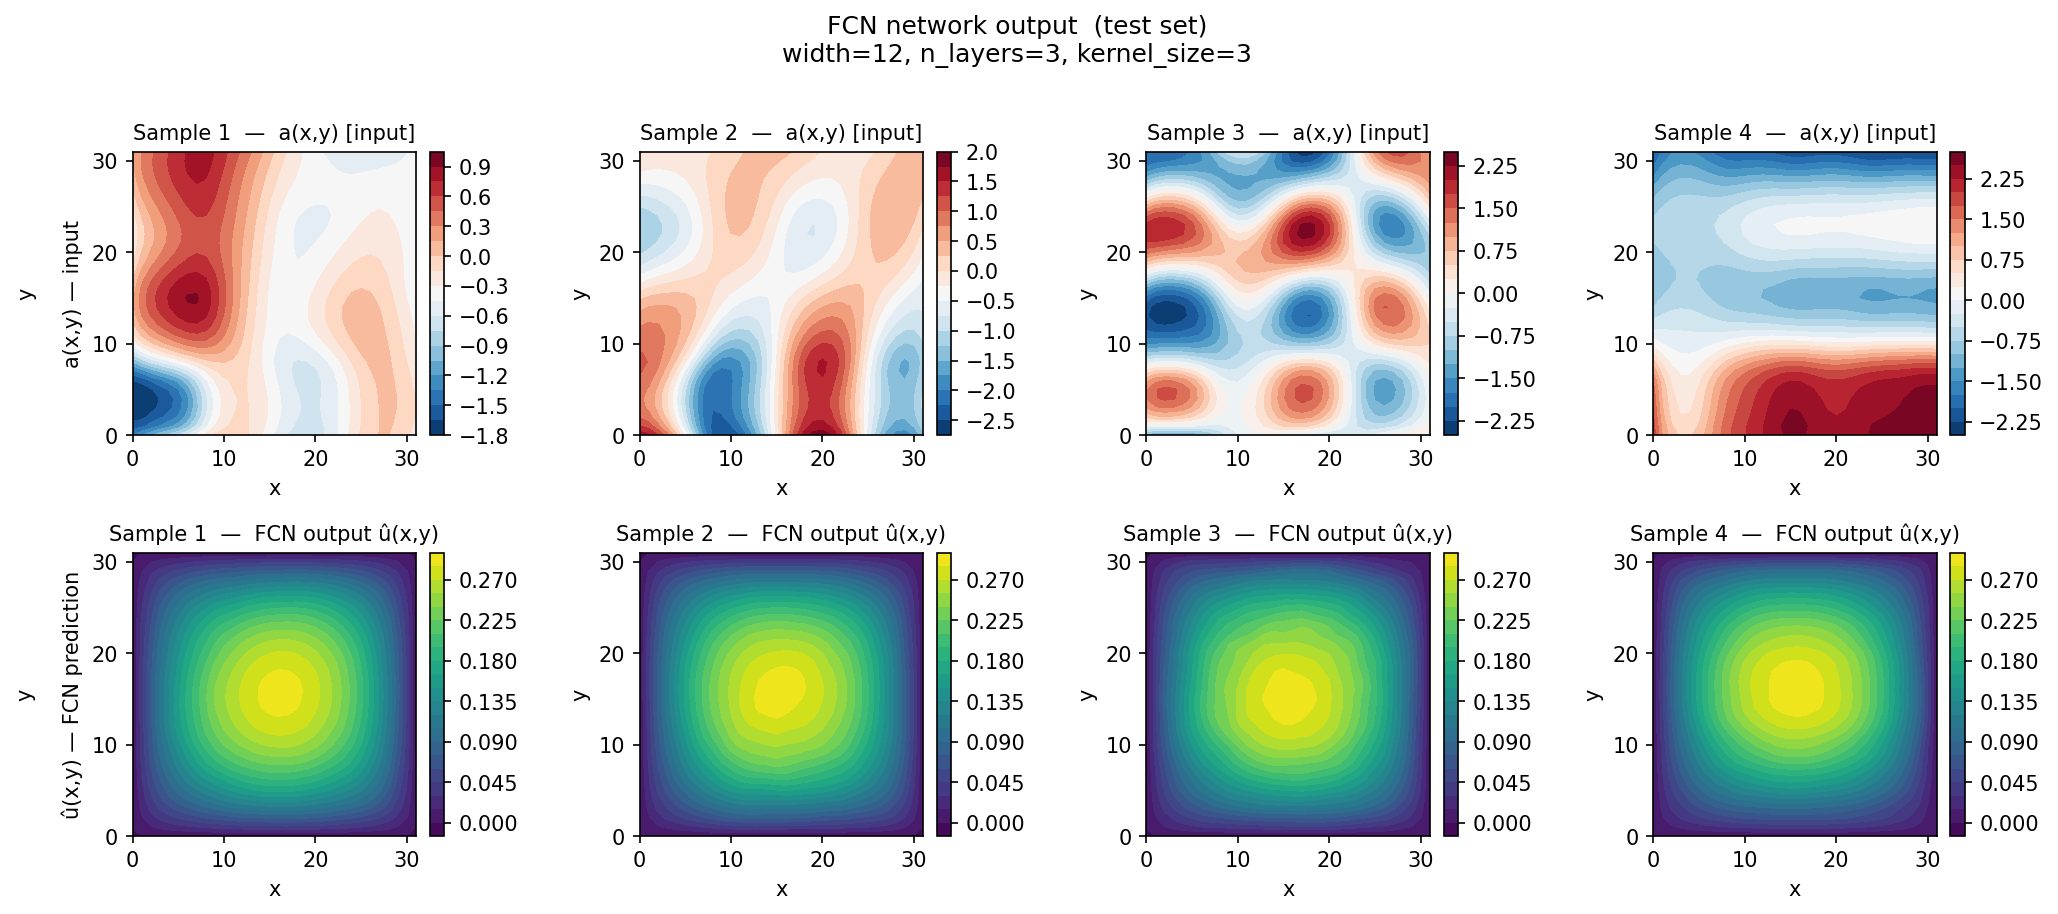
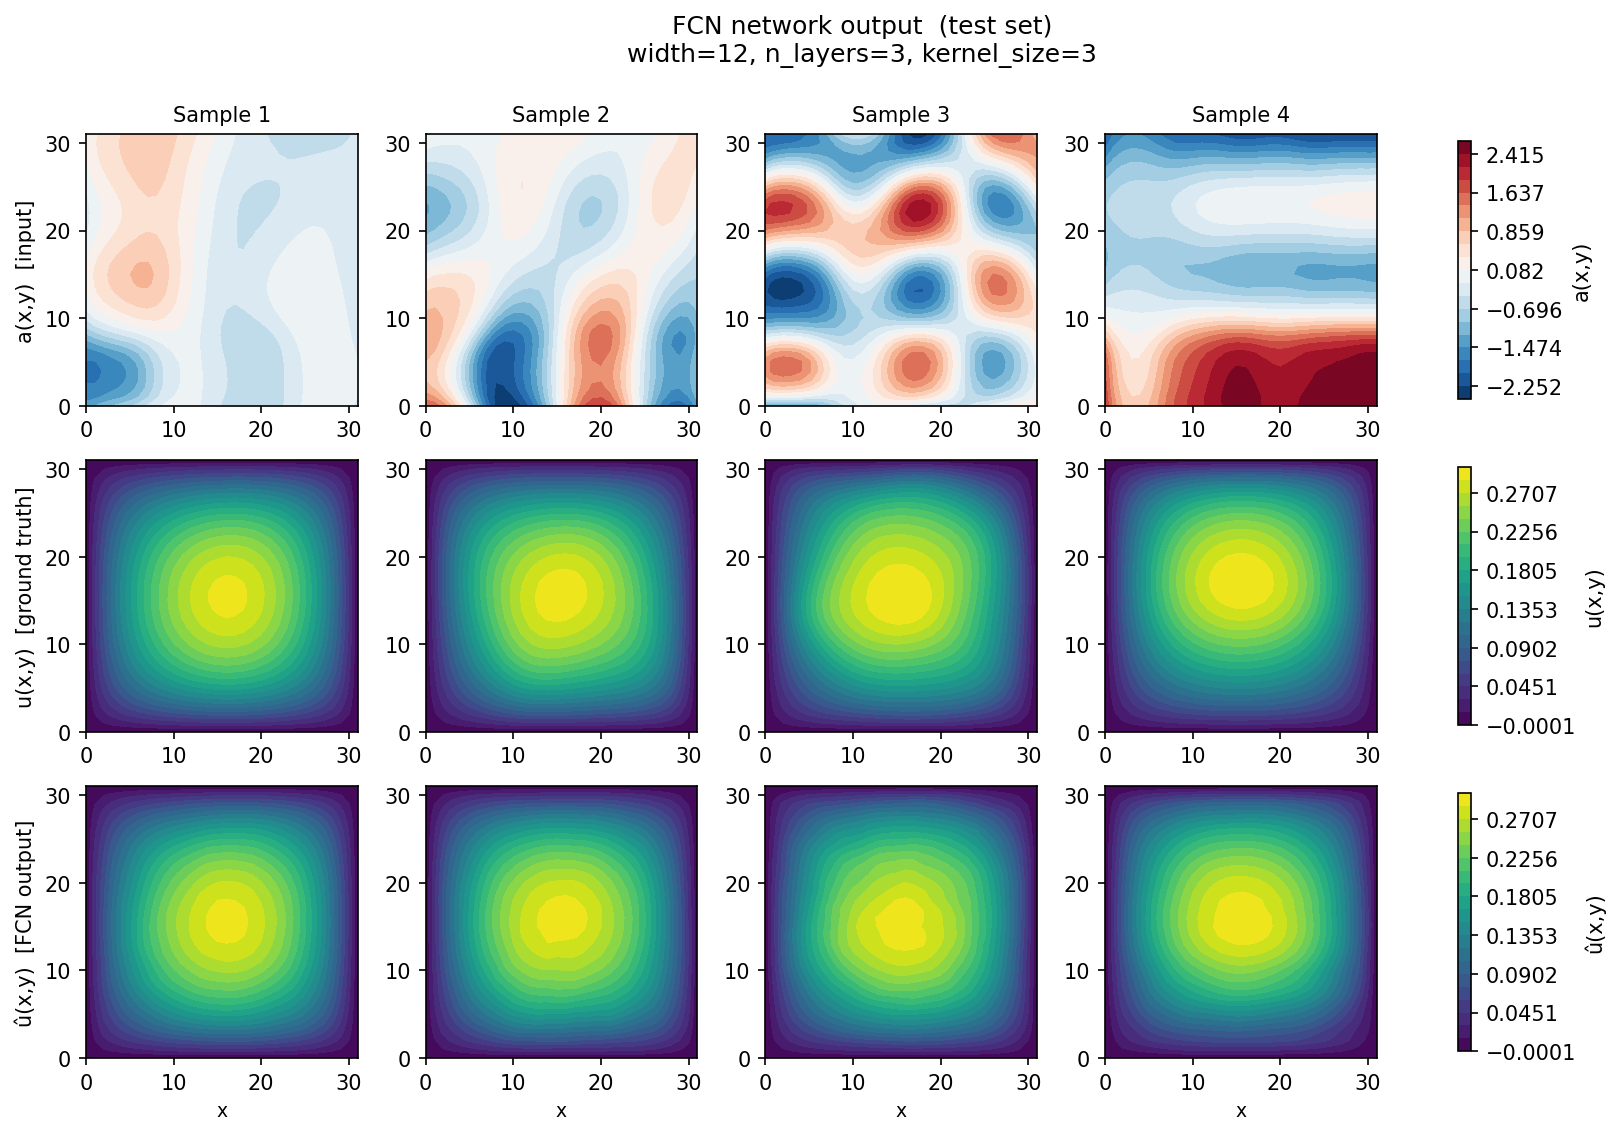
added a set of plots for understanding performance

diff --git a/Coursework2_Problem_2/Darcy_FCN.py b/Coursework2_Problem_2/Darcy_FCN.py
@@ -212,39 +212,143 @@ if __name__ == '__main__':
     plt.legend()
     plt.grid()
     plt.show()
+
     ############################# Contour plots of network output #############################
     n_examples = 4
-    fig, axes = plt.subplots(2, n_examples, figsize=(3.5 * n_examples, 6))
+    fig, axes = plt.subplots(3, n_examples, figsize=(3.5 * n_examples, 8))
 
     net.eval()
     with torch.no_grad():
         pred = u_normalizer.decode(net(a_test))  # (n_test, H, W)
 
+    # Shared colour ranges per row; ground truth and prediction share the same u scale
+    a_levels = np.linspace(a_test[:n_examples].min(), a_test[:n_examples].max(), 21)
+    u_all = np.concatenate([u_test[:n_examples].numpy(), pred[:n_examples].numpy()])
+    u_levels = np.linspace(u_all.min(), u_all.max(), 21)
+
     for i in range(n_examples):
-        # Input a(x,y) — normalised, shown for reference
         ax = axes[0, i]
-        cf = ax.contourf(a_test[i].numpy(), levels=20, cmap='RdBu_r')
-        plt.colorbar(cf, ax=ax, fraction=0.046, pad=0.04)
-        ax.set_title(f'Sample {i+1}  —  a(x,y) [input]', fontsize=10)
-        ax.set_xlabel('x'); ax.set_ylabel('y')
+        cf_a = ax.contourf(a_test[i].numpy(), levels=a_levels, cmap='RdBu_r')
+        ax.set_title(f'Sample {i+1}', fontsize=10)
         ax.set_aspect('equal')
+        if i == 0:
+            ax.set_ylabel('a(x,y)  [input]', fontsize=10)
 
-        # FCN predicted output u(x,y)
         ax = axes[1, i]
-        cf = ax.contourf(pred[i].numpy(), levels=20, cmap='viridis')
-        plt.colorbar(cf, ax=ax, fraction=0.046, pad=0.04)
-        ax.set_title(f'Sample {i+1}  —  FCN output û(x,y)', fontsize=10)
-        ax.set_xlabel('x'); ax.set_ylabel('y')
+        cf_u = ax.contourf(u_test[i].numpy(), levels=u_levels, cmap='viridis')
         ax.set_aspect('equal')
+        if i == 0:
+            ax.set_ylabel('u(x,y)  [ground truth]', fontsize=10)
 
-    axes[0, 0].set_ylabel('y\n\na(x,y) \u2014 input', fontsize=10)
-    axes[1, 0].set_ylabel('y\n\n\u00fb(x,y) \u2014 FCN prediction', fontsize=10)
+        ax = axes[2, i]
+        cf_p = ax.contourf(pred[i].numpy(), levels=u_levels, cmap='viridis')
+        ax.set_xlabel('x', fontsize=9)
+        ax.set_aspect('equal')
+        if i == 0:
+            ax.set_ylabel('\u00fb(x,y)  [FCN output]', fontsize=10)
+
+    # One shared colorbar per row, on the right
+    fig.colorbar(cf_a, ax=axes[0].tolist(), location='right', shrink=0.95, label='a(x,y)')
+    fig.colorbar(cf_u, ax=axes[1].tolist(), location='right', shrink=0.95, label='u(x,y)')
+    fig.colorbar(cf_p, ax=axes[2].tolist(), location='right', shrink=0.95, label='\u00fb(x,y)')
 
     fig.suptitle('FCN network output  (test set)\n'
                  f'width={channel_width}, n_layers={net.layers.__len__()//3}, kernel_size=3',
-                 fontsize=12, y=1.01)
+                 fontsize=12)
     plt.savefig('fcn_output_preview.png', dpi=150, bbox_inches='tight')
     print('Figure saved -> fcn_output_preview.png')
+    plt.show()
+
+    ############################# Contour plots in normalised space #############################
+    # a_test is already encoded; encode u and use raw net output (before decode)
+    net.eval()
+    with torch.no_grad():
+        pred_norm = net(a_test)           # normalised prediction (n_test, H, W)
+
+    u_test_norm = u_normalizer.encode(u_test)  # normalised ground truth
+
+    fig2, axes2 = plt.subplots(3, n_examples, figsize=(3.5 * n_examples, 8))
+
+    a_lev_n = np.linspace(a_test[:n_examples].min(), a_test[:n_examples].max(), 21)
+    u_all_n = np.concatenate([u_test_norm[:n_examples].numpy(), pred_norm[:n_examples].numpy()])
+    u_lev_n = np.linspace(u_all_n.min(), u_all_n.max(), 21)
+
+    for i in range(n_examples):
+        ax = axes2[0, i]
+        cf2_a = ax.contourf(a_test[i].numpy(), levels=a_lev_n, cmap='RdBu_r')
+        ax.set_title(f'Sample {i+1}', fontsize=10)
+        ax.set_aspect('equal')
+        if i == 0:
+            ax.set_ylabel('a(x,y)  [input, norm]', fontsize=10)
+
+        ax = axes2[1, i]
+        cf2_u = ax.contourf(u_test_norm[i].numpy(), levels=u_lev_n, cmap='viridis')
+        ax.set_aspect('equal')
+        if i == 0:
+            ax.set_ylabel('u(x,y)  [truth, norm]', fontsize=10)
+
+        ax = axes2[2, i]
+        cf2_p = ax.contourf(pred_norm[i].numpy(), levels=u_lev_n, cmap='viridis')
+        ax.set_xlabel('x', fontsize=9)
+        ax.set_aspect('equal')
+        if i == 0:
+            ax.set_ylabel('\u00fb(x,y)  [FCN, norm]', fontsize=10)
+
+    fig2.colorbar(cf2_a, ax=axes2[0].tolist(), location='right', shrink=0.95, label='a(x,y)')
+    fig2.colorbar(cf2_u, ax=axes2[1].tolist(), location='right', shrink=0.95, label='u(x,y)')
+    fig2.colorbar(cf2_p, ax=axes2[2].tolist(), location='right', shrink=0.95, label='\u00fb(x,y)')
+
+    fig2.suptitle('FCN network output  (test set, norm space)\n'
+                  f'width={channel_width}, n_layers={net.layers.__len__()//3}, kernel_size=3',
+                  fontsize=12)
+    plt.savefig('fcn_output_normalised.png', dpi=150, bbox_inches='tight')
+    print('Figure saved -> fcn_output_normalised.png')
+    plt.show()
+
+    ############################# Input / truth / prediction / error plot #############################
+    diff = u_test[:n_examples].numpy() - pred[:n_examples].numpy()  # truth - prediction
+    diff_abs_max = np.abs(diff).max()
+    diff_levels = np.linspace(-diff_abs_max, diff_abs_max, 21)
+
+    fig3, axes3 = plt.subplots(4, n_examples, figsize=(3.5 * n_examples, 10))
+
+    for i in range(n_examples):
+        ax = axes3[0, i]
+        cf3_a = ax.contourf(a_test[i].numpy(), levels=a_levels, cmap='RdBu_r')
+        ax.set_title(f'Sample {i+1}', fontsize=10)
+        ax.set_aspect('equal')
+        if i == 0:
+            ax.set_ylabel('a(x,y)  [input]', fontsize=10)
+
+        ax = axes3[1, i]
+        cf3_u = ax.contourf(u_test[i].numpy(), levels=u_levels, cmap='viridis')
+        ax.set_aspect('equal')
+        if i == 0:
+            ax.set_ylabel('u(x,y)  [truth]', fontsize=10)
+
+        ax = axes3[2, i]
+        cf3_p = ax.contourf(pred[i].numpy(), levels=u_levels, cmap='viridis')
+        ax.set_aspect('equal')
+        if i == 0:
+            ax.set_ylabel('\u00fb(x,y)  [FCN]', fontsize=10)
+
+        ax = axes3[3, i]
+        cf3_d = ax.contourf(diff[i], levels=diff_levels, cmap='RdBu_r')
+        ax.set_xlabel('x', fontsize=9)
+        ax.set_aspect('equal')
+        if i == 0:
+            ax.set_ylabel('u \u2212 \u00fb  [error]', fontsize=10)
+
+    fig3.colorbar(cf3_a, ax=axes3[0].tolist(), location='right', shrink=0.95, label='a(x,y)')
+    fig3.colorbar(cf3_u, ax=axes3[1].tolist(), location='right', shrink=0.95, label='u(x,y)')
+    fig3.colorbar(cf3_p, ax=axes3[2].tolist(), location='right', shrink=0.95, label='\u00fb(x,y)')
+    fig3.colorbar(cf3_d, ax=axes3[3].tolist(), location='right', shrink=0.95, label='u \u2212 \u00fb')
+
+    fig3.suptitle('FCN: input / truth / prediction / error  (test set)\n'
+                  f'width={channel_width}, n_layers={net.layers.__len__()//3}, kernel_size=3',
+                  fontsize=12)
+    plt.savefig('fcn_output_error.png', dpi=150, bbox_inches='tight')
+    print('Figure saved -> fcn_output_error.png')
     plt.show()
 
     
